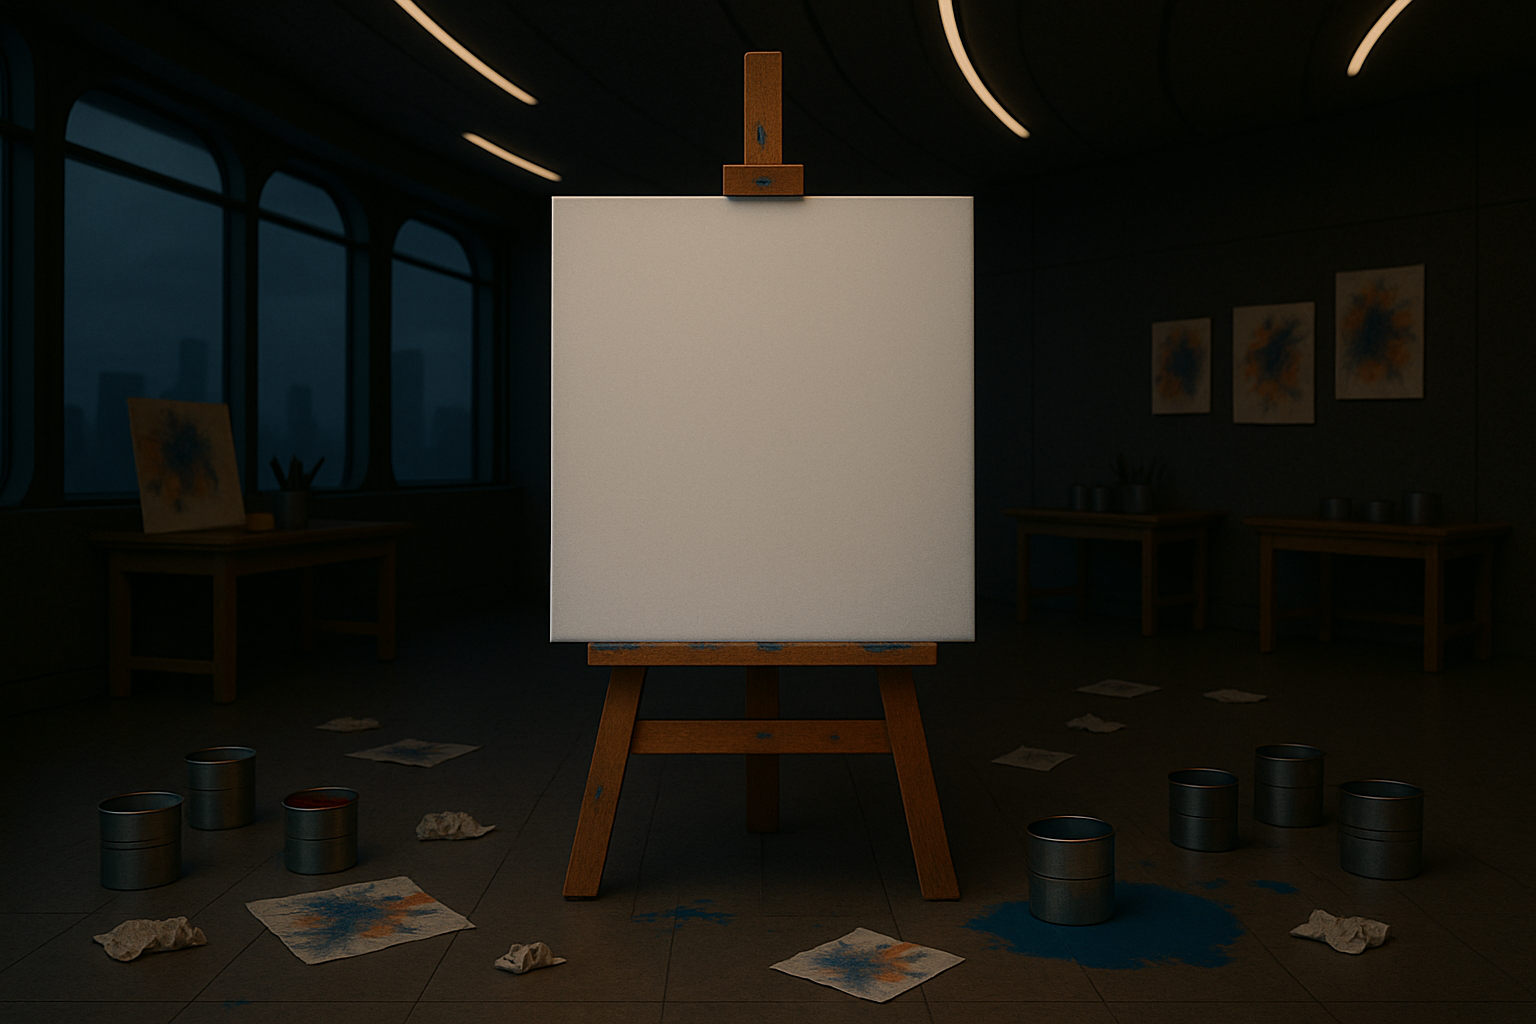
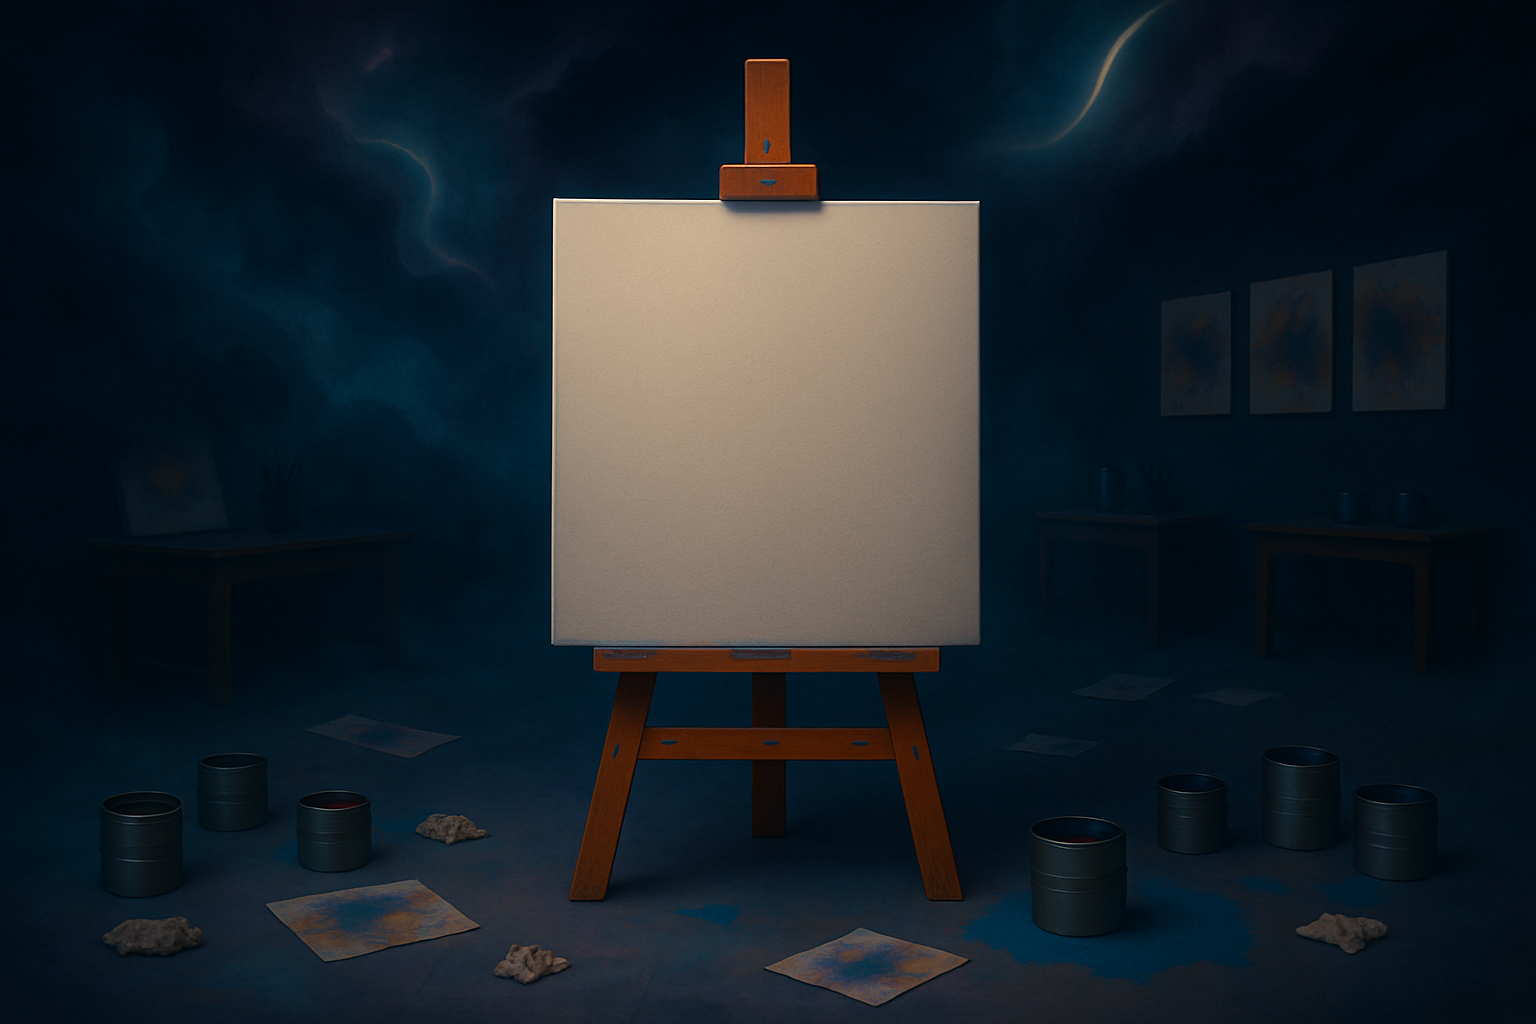
Changed background image of human interactable and increased tooltip offset

diff --git a/src/main/java/nz/ac/auckland/se206/BubbleDragUtil.java b/src/main/java/nz/ac/auckland/se206/BubbleDragUtil.java
@@ -17,7 +17,7 @@ public class BubbleDragUtil {
   private ImageView bubble;
   private HumanMemoryController humanMemoryController;
   private boolean debounce = false;
-  private final int TOOLTIP_OFFSET = 12;
+  private final int TOOLTIP_OFFSET = 14;
 
   public BubbleDragUtil(
       ImageView bubble, HumanMemoryController humanMemoryController, String tooltipText) {
